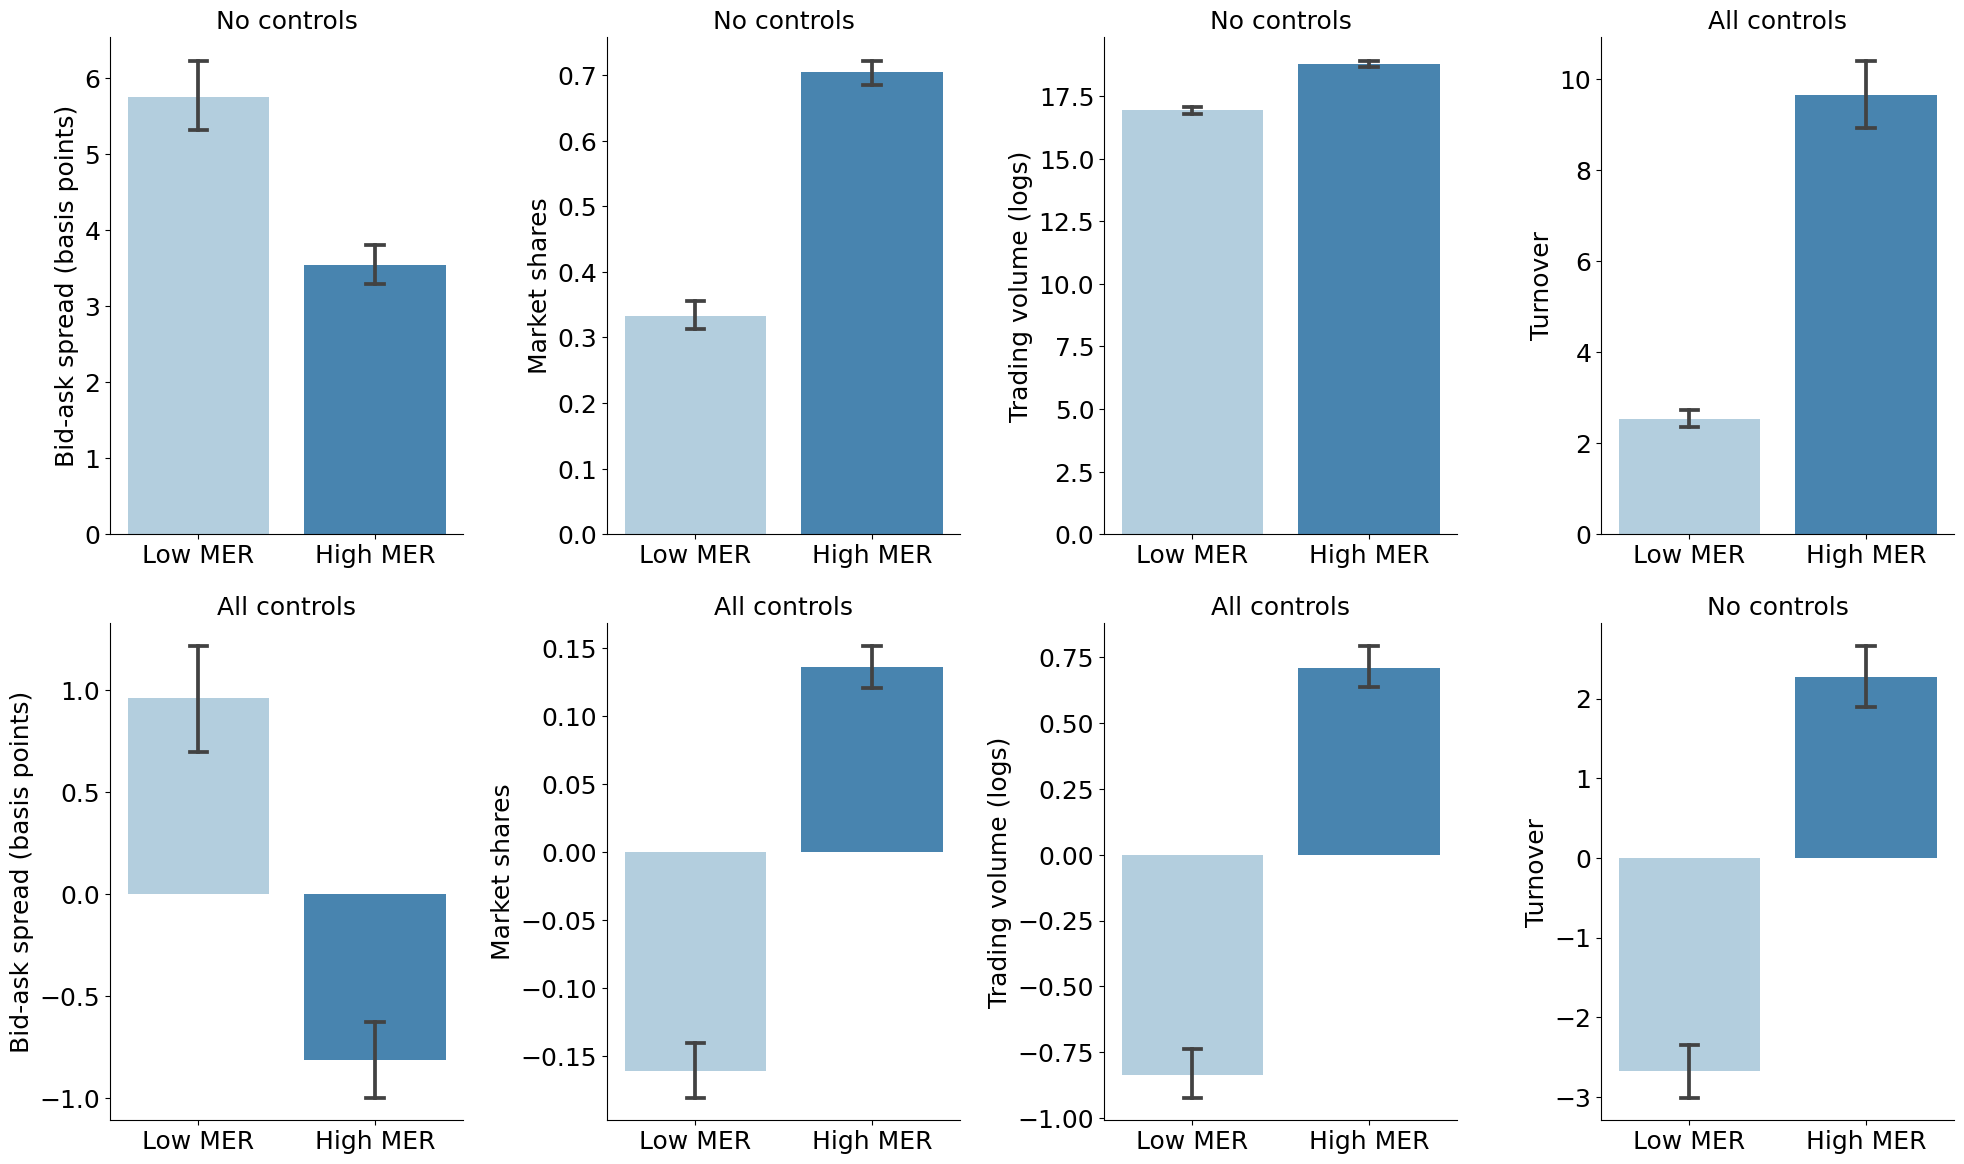
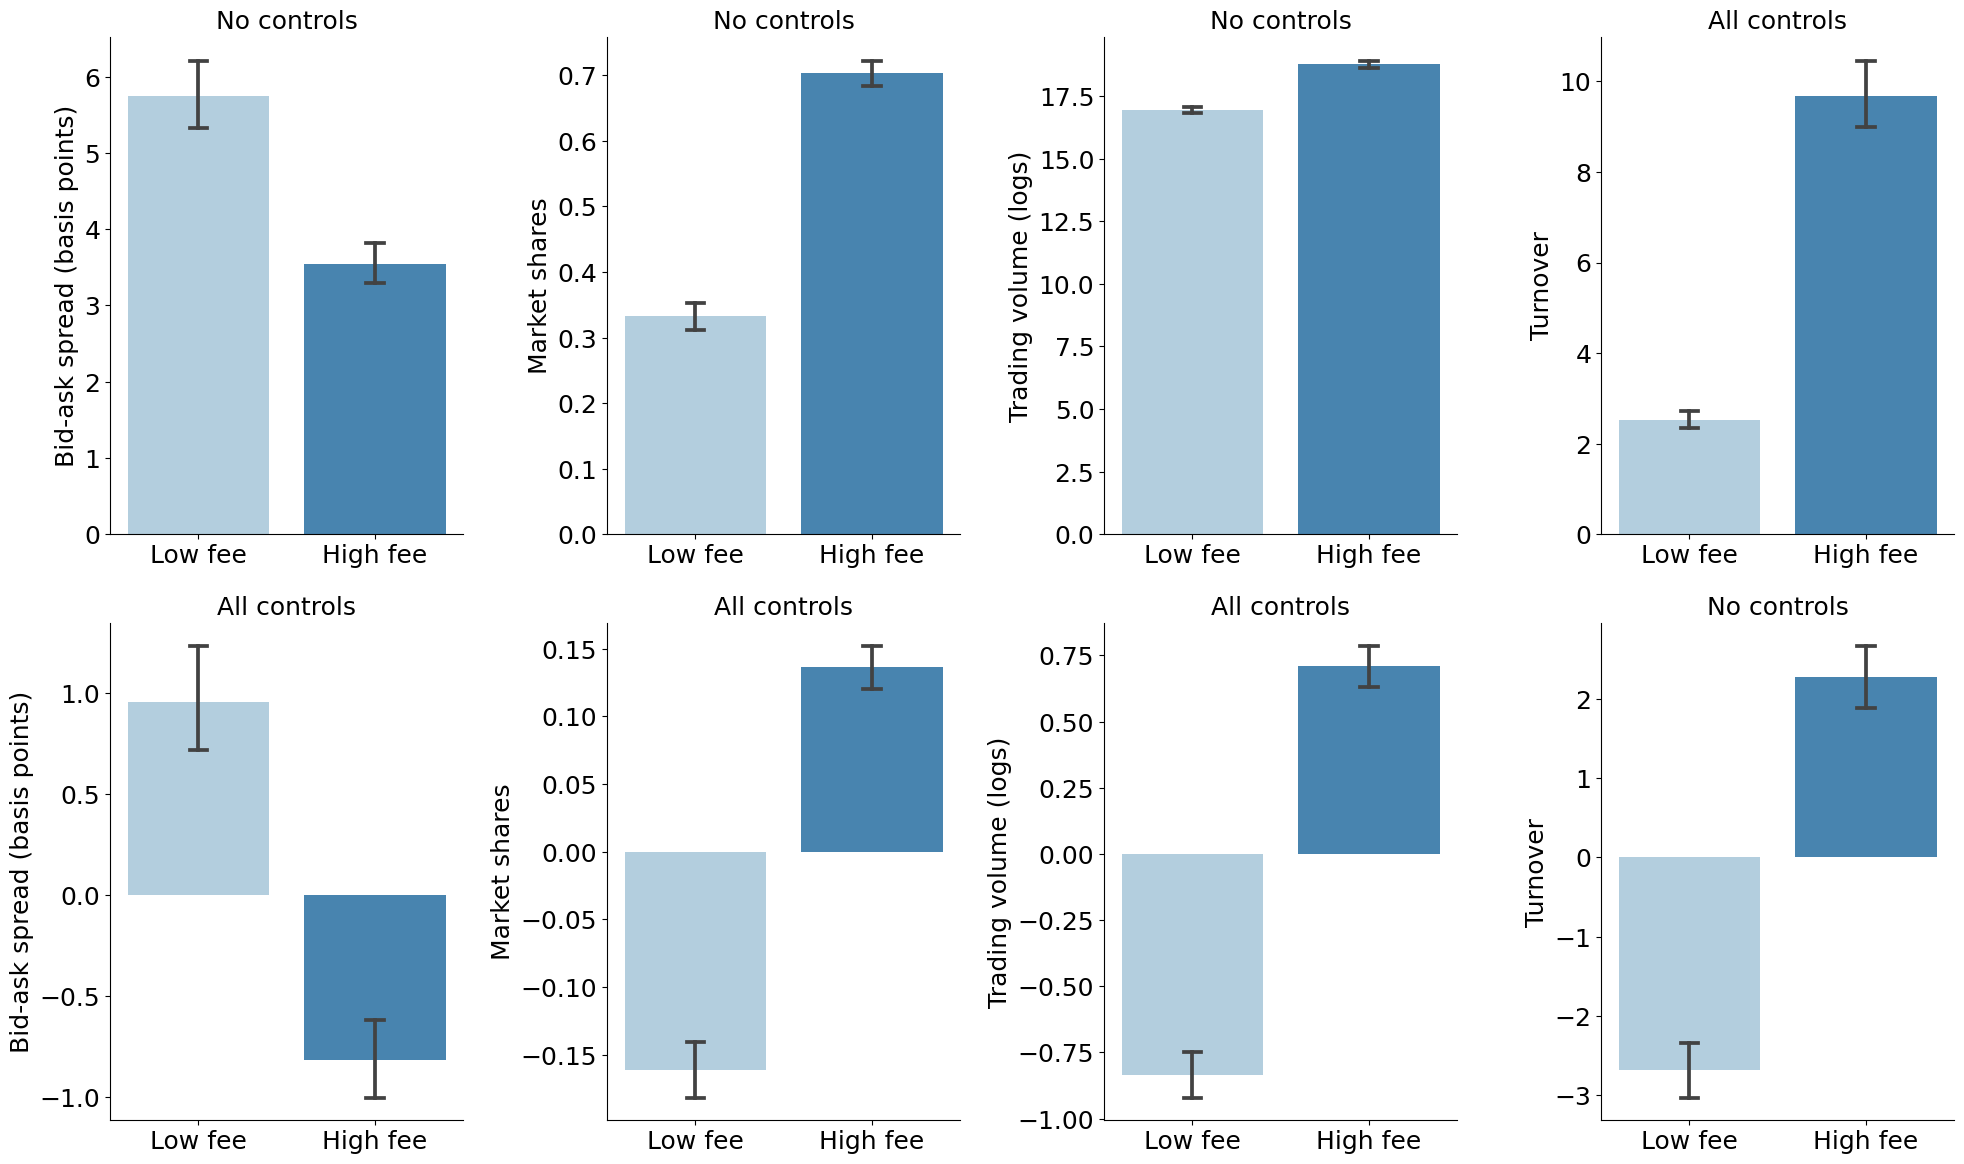
Change labels from MER to fee

diff --git a/code/build_etf_panel.py b/code/build_etf_panel.py
@@ -667,7 +667,7 @@ if __name__ == "__main__":
     )
     aum_quarter_tax["dollar_pos"] = aum_quarter_tax["dollar_pos"] / 10**9
     aum_quarter_tax["highfee"] = np.where(
-        aum_quarter_tax["highfee"] == 1, "High MER", "Low MER"
+        aum_quarter_tax["highfee"] == 1, "High fee", "Low fee"
     )
     aum_quarter_tra = (
         d13furg_micro.groupby(["quarter", "horizon_perma", "highfee"])
@@ -676,7 +676,7 @@ if __name__ == "__main__":
     )
     aum_quarter_tra["dollar_pos"] = aum_quarter_tra["dollar_pos"] / 10**9
     aum_quarter_tra["highfee"] = np.where(
-        aum_quarter_tra["highfee"] == 1, "High MER", "Low MER"
+        aum_quarter_tra["highfee"] == 1, "High fee", "Low fee"
     )
 
     sizefigs_L = (16, 9)
@@ -814,7 +814,7 @@ if __name__ == "__main__":
     plt.xlabel("")
     # plt.xlabel("ETF management expense ratio (MER)",fontsize=18)
     plt.ylabel("Bid-ask spread (basis points)", fontsize=18)
-    ax.set_xticklabels(["Low MER", "High MER"], fontsize=18)
+    ax.set_xticklabels(["Low fee", "High fee"], fontsize=18)
     plt.title("No controls", fontsize=18)
 
     ax = fig.add_subplot(gs[0, 1])
@@ -831,7 +831,7 @@ if __name__ == "__main__":
     plt.xlabel("")
     # plt.xlabel("ETF management expense ratio (MER)",fontsize=18)
     plt.ylabel("Market shares", fontsize=18)
-    ax.set_xticklabels(["Low MER", "High MER"], fontsize=18)
+    ax.set_xticklabels(["Low fee", "High fee"], fontsize=18)
     plt.title("No controls", fontsize=18)
 
     ax = fig.add_subplot(gs[0, 2])
@@ -848,7 +848,7 @@ if __name__ == "__main__":
     plt.xlabel("")
     # plt.xlabel("ETF management expense ratio (MER)",fontsize=18)
     plt.ylabel("Trading volume (logs)", fontsize=18)
-    ax.set_xticklabels(["Low MER", "High MER"], fontsize=18)
+    ax.set_xticklabels(["Low fee", "High fee"], fontsize=18)
     plt.title("No controls", fontsize=18)
 
     ax = fig.add_subplot(gs[0, 3])
@@ -865,7 +865,7 @@ if __name__ == "__main__":
     plt.xlabel("")
     # plt.xlabel("ETF management expense ratio (MER)",fontsize=18)
     plt.ylabel("Turnover", fontsize=18)
-    ax.set_xticklabels(["Low MER", "High MER"], fontsize=18)
+    ax.set_xticklabels(["Low fee", "High fee"], fontsize=18)
     plt.title("All controls", fontsize=18)
 
     ax = fig.add_subplot(gs[1, 0])
@@ -882,7 +882,7 @@ if __name__ == "__main__":
     plt.xlabel("")
     # plt.xlabel("ETF management expense ratio (MER)",fontsize=18)
     plt.ylabel("Bid-ask spread (basis points)", fontsize=18)
-    ax.set_xticklabels(["Low MER", "High MER"], fontsize=18)
+    ax.set_xticklabels(["Low fee", "High fee"], fontsize=18)
     plt.title("All controls", fontsize=18)
 
     ax = fig.add_subplot(gs[1, 1])
@@ -899,7 +899,7 @@ if __name__ == "__main__":
     plt.xlabel("")
     # plt.xlabel("ETF management expense ratio (MER)",fontsize=18)
     plt.ylabel("Market shares", fontsize=18)
-    ax.set_xticklabels(["Low MER", "High MER"], fontsize=18)
+    ax.set_xticklabels(["Low fee", "High fee"], fontsize=18)
     plt.title("All controls", fontsize=18)
 
     ax = fig.add_subplot(gs[1, 2])
@@ -916,7 +916,7 @@ if __name__ == "__main__":
     plt.xlabel("")
     # plt.xlabel("ETF management expense ratio (MER)",fontsize=18)
     plt.ylabel("Trading volume (logs)", fontsize=18)
-    ax.set_xticklabels(["Low MER", "High MER"], fontsize=18)
+    ax.set_xticklabels(["Low fee", "High fee"], fontsize=18)
     plt.title("All controls", fontsize=18)
 
     ax = fig.add_subplot(gs[1, 3])
@@ -933,7 +933,7 @@ if __name__ == "__main__":
     plt.xlabel("")
     # plt.xlabel("ETF management expense ratio (MER)",fontsize=18)
     plt.ylabel("Turnover", fontsize=18)
-    ax.set_xticklabels(["Low MER", "High MER"], fontsize=18)
+    ax.set_xticklabels(["Low fee", "High fee"], fontsize=18)
     plt.title("No controls", fontsize=18)
 
     plt.tight_layout(pad=2)

diff --git a/code/entry_analysis.py b/code/entry_analysis.py
@@ -507,9 +507,9 @@ if __name__ == "__main__":
     plt.text(2, 1.05, "Follower entry", fontsize=20, ha="left", va="bottom")
 
     plt.xlabel("Days from entry", fontsize=20)
-    plt.ylabel("Normalized MER", fontsize=20)
+    plt.ylabel("Normalized fee", fontsize=20)
     plt.legend(loc="best", fontsize=20, frameon=False)
-    plt.title("Panel (a): Aggregate MER dynamics around entry", fontsize=20)
+    plt.title("Panel (a): Aggregate fee dynamics around entry", fontsize=20)
 
     ax = fig.add_subplot(gs[1, 0])
     ax = settings_plot(ax)
@@ -527,9 +527,9 @@ if __name__ == "__main__":
     )
 
     plt.xlabel("Days from entry", fontsize=20)
-    plt.ylabel("Normalized MER", fontsize=20)
+    plt.ylabel("Normalized fee", fontsize=20)
     ax.legend(
-        title="Incumbent MER",
+        title="Incumbent fee",
         fontsize=16,
         title_fontsize=18,
         frameon=False,
@@ -538,7 +538,7 @@ if __name__ == "__main__":
 
     plt.axvline(x=0, c="k", ls="--", lw=2)
     plt.text(2, 1.04, "Follower entry", fontsize=20, ha="left", va="bottom")
-    plt.title("Panel (b): Heterogeneity in MER dynamics around entry", fontsize=20)
+    plt.title("Panel (b): Heterogeneity in fee dynamics around entry", fontsize=20)
 
     ax = fig.add_subplot(gs[1, 1])
     ax = settings_plot(ax)
@@ -561,7 +561,7 @@ if __name__ == "__main__":
     plt.xlabel("Days from entry", fontsize=20)
     plt.ylabel("Normalized AUM", fontsize=20)
     ax.legend(
-        title="Incumbent MER",
+        title="Incumbent fee",
         fontsize=16,
         title_fontsize=18,
         frameon=False,
